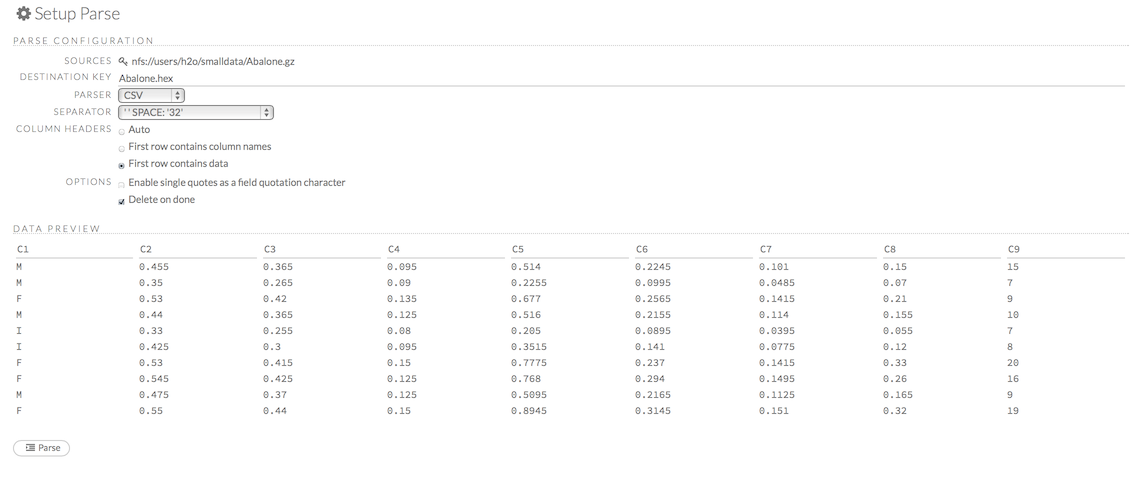
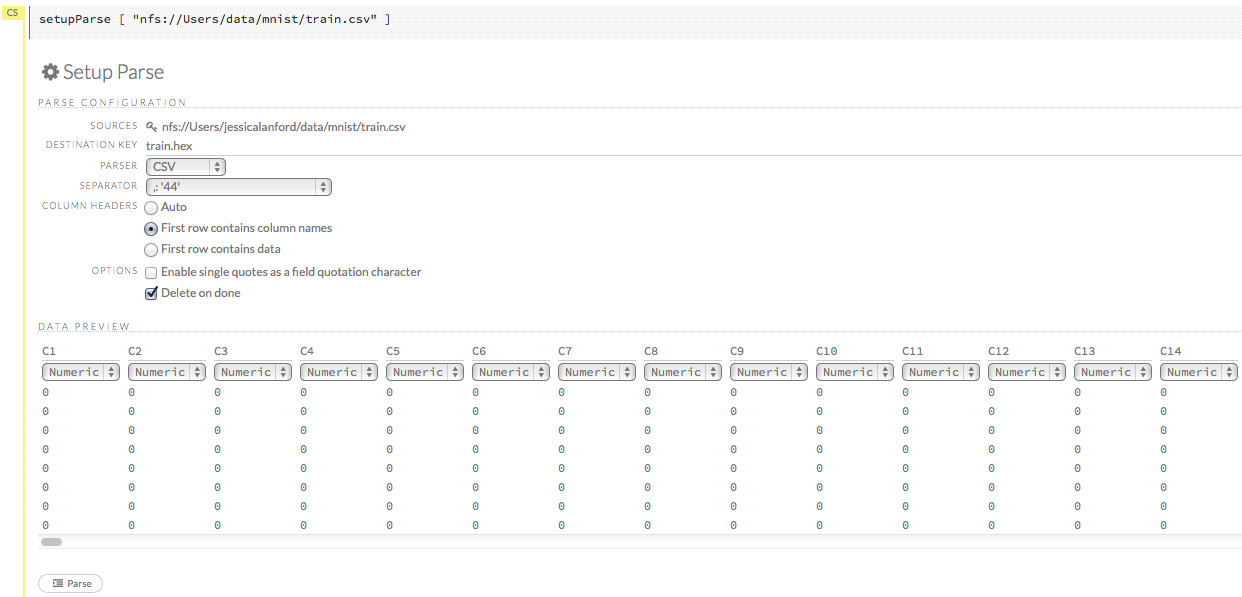
Updated Getting Started with Flow doc; added new Parse image, info on flow import/export, new Predict image

Changed region(s): [[0.0, 0.0, 1.0, 0.8696], [0.0, 0.9006, 0.0924, 0.9938], [0.0, 0.8075, 0.0308, 0.8385]]

diff --git a/h2o-docs/src/product/flow/README.md b/h2o-docs/src/product/flow/README.md
@@ -73,6 +73,10 @@ There are two modes for cells: edit and command. In edit mode, the cell is yello
 **NOTE**: If there is an error in the cell, the flag is red. 
 
  ![Cell error](images/Flow_redflag.png)
+ 
+ If the cell is executing commands, the flag is teal. The flag returns to yellow when the task is complete. 
+ 
+ ![Cell executing](images/Flow_cellmode_runningflag.png)
 
 Here are some important keyboard shortcuts to remember: 
 
@@ -161,9 +165,21 @@ Select any necessary additional options:
 - **Enable single quotes as a field quotation character**: Treat single quote marks (also known as apostrophes) in the data as a character, rather than an enum. This option is not selected by default. 
 - **Delete on done**: Check this checkbox to delete the imported data after parsing. This option is selected by default. 
 
-A preview of the data displays in the "Data Preview" section. After making your selections, click the **Parse** button. 
-
+A preview of the data displays in the "Data Preview" section. 
  ![Flow - Parse options](images/Flow_parse_setup.png)
+
+**Note**: To change the column type, select the drop-down list at the top of the column and select the data type. The options are: 
+  - Unknown
+  - Numeric
+  - Enum
+  - Time
+  - UUID
+  - String
+  - Invalid
+
+
+After making your selections, click the **Parse** button. 
+
 
 After you click the **Parse** button, the code for the current job displays. 
 
@@ -229,18 +245,21 @@ In the **Build a Model** cell, select an algorithm from the drop-down menu:
 
 <a name="Kmeans"></a>
 - **kmeans**: Create a K-Means model
+**Note**: For a K-Means model, the columns in the training frame cannot contain categorical values. If you select a dataset with categorical values as the training frame, the categorical columns are identified.
 
 <a name="GLM"></a>
 - **glm**: Create a Generalized Linear model
 
 <a name="grep"></a>
 - **grep**: Perform a global search for a specified character string and display the results (global regular expression)
+**Note**: For a grep model, the selected training frame must contain one vector of raw text. 
  
 <a name="w2v"></a>
-- **word2vec**: Create a word-to-vector model for text-based data
+- **word2vec**: Create a word-to-vector model for text-based data. 
+**Note**: For a word2vec model, the training frame must contain string columns. 
 
-<a name="sf"></a>
-- **splitframe**: Split a data frame
+<a name="pca"></a> 
+- **pca**: Create a Principal Components Analysis model for modeling without regularization or performing dimensionality reduction. 
 
 <a name="GBM"></a>
 - **gbm**: Create a Gradient Boosted model
@@ -264,9 +283,14 @@ The available options vary depending on the selected model. If an option is only
 
 - **DropNA20Cols**: (Optional)Check this checkbox to drop columns that are missing (i.e., use 0 or NA) over 20% of their values 
 
+- **User_points**: [(K-Means)](#Kmeans), [(PCA)](#pca) For K-Means, specify the number of initial cluster centers. For PCA, specify the initial Y matrix. 
+**Note**: The PCA **User_points** parameter should only be used by advanced users for testing purposes.  
+
+- **Transform**: [(PCA)](#pca) Select the transformation method for the training data: None, Standardize, Normalize, Demean, or Descale. The default is None. 
+
 - **Score\_each\_iteration**: (Optional) Score the validation set after each iteration of the model-building process. If you select this option, the model-building time increases. 
 
-- **Probs**: [(Quantile)](#quantile) Specify the probabilities for quantiles. The default values are [0.01, 0.05, 0.1, 0.25, 0.333, 0.5, 0.667, 0.75, 0.9, 0.95, 0.99]. 
+- **Probs**: [(Quantile)](#quantile) Specify the probabilities for quantiles. The default values are 0.001, 0.01, 0.1, 0.25, 0.333, 0.5, 0.667, 0.75, 0.9, 0.99, 0.999. 
 
 - **Response_column**: (Required for [GLM](#GLM), [GBM](#GBM), [DL](#DL)) Select the column to use as the independent variable.
 
@@ -292,11 +316,16 @@ The available options vary depending on the selected model. If an option is only
 
 - **Variable_importance**: ([GBM](#GBM), [DL](#DL)) Check this checkbox to compute variable importance. This option is not selected by default. 
 
-- **K**: [(K-Means)](#Kmeans) Specify the number of clusters. The default is 0.
+- **K**: [(K-Means)](#Kmeans), [(PCA)](#pca) For K-Means, specify the number of clusters. The K-Means default is 0. For PCA, specify the rank of matrix approximation. The PCA default is 1.  
 
-- **Max_iters**: [(K-Means)](#Kmeans) Specify the number of training iterations. The default is 1000. 
+- **Gamma**: [(PCA)](#pca) Specify the regularization weight for PCA. The default is 0. 
 
-- **Init**: [(K-Means)](#Kmeans) Select the initialization mode (Furthest, PlusPlus, or None).
+- **Max_iterations**: [(K-Means)](#Kmeans), [(PCA)](#pca) Specify the number of training iterations. The default is 1000.
+
+- **Max_iters**: [(GLM)](#GLM) Specify the number of training iterations. The default is 50.  
+
+- **Init**: [(K-Means)](#Kmeans), [(PCA)](#pca) Select the initialization mode For K-Means, the options are Furthest, PlusPlus, or None. For PCA, the options are PlusPlus, User, or None. 
+**Note**: If PlusPlus is selected, the initial Y matrix is chosen by the final cluster centers from the K-Means PlusPlus algorithm. 
 
 - **Family**: [(GLM)](#GLM) Select the model type (Gaussian, Binomial, Poisson, Gamma, Tweedie, or none).
 
@@ -325,6 +354,8 @@ The available options vary depending on the selected model. If an option is only
 - **Class\_sampling\_factors**: ([GLM](#GLM), [DL](#DL)) Specify the per-class (in lexicographical order) over/under-sampling ratios. By default, these ratios are automatically computed during training to obtain the class balance. There is no default value. 
 
 - **Solver**: [(GLM)](#GLM) Select the solver to use (ADMM, L\_BFGS, or none). [ADMM](http://www.stanford.edu/~boyd/papers/admm_distr_stats.html) supports more features and [L_BFGS](http://cran.r-project.org/web/packages/lbfgs/vignettes/Vignette.pdf) scales better for datasets with many columns. The default is ADMM. 
+
+- **Beta_eps**: [(GLM)](#GLM) Specify the beta epsilon value. If the L1 normalization of the current beta change is below this threshold, consider using convergence. 
 
 - **Diagnostics**: [(DL)](#DL) Check this checkbox to compute the variable importances for input features (using the Gedeon method). For large networks, selecting this option can reduce speed. This option is selected by default. 
 
@@ -589,10 +620,10 @@ The "Outline" tab in the sidebar displays a brief summary of the cells currently
 
 ---
 
-<a name"SaveFlow"></a>
+<a name="SaveFlow"></a>
 ##Saving Flows
 
-You can save your flow for later reuse. To save your flow, click the "Save" button (the first button in the row of buttons below the flow name), or click the drop-down "Flow" menu and select "Save." 
+You can save your flow for later reuse. To save your flow as a notebook, click the "Save" button (the first button in the row of buttons below the flow name), or click the drop-down "Flow" menu and select "Save." 
 To enter a custom name for the flow, click the default flow name ("Untitled Flow") and type the desired flow name. A pencil icon indicates where to enter the desired name. 
 
  ![Renaming Flows](images/Flow_rename.png)
@@ -607,6 +638,34 @@ To reuse a saved flow, click the "Flows" tab in the sidebar, then click the flow
  
  **NOTE**: Saved data, including flows and clips, are persistent as long as the same IP address is used for the cluster. If a new IP is used, previously saved flows and clips are not available. 
 
+
+###Duplicating Flows
+
+To create a copy of the current flow, select the **Flow** menu, then click **Duplicate**. The name of the current flow changes to "Copy of <FlowName>" (where <FlowName> is the name of the flow). You can save the duplicated flow using this name by clicking **Flow** > **Save**. 
+
+
+###Exporting Flows
+
+After saving a flow as a notebook, click the **Flow** menu, then select **Export**. A new window opens and the saved flow is downloaded to the default downloads folder on your computer. The file is exported as *<filename>*.flow, where *<filename>* is the name specified when the flow was saved. 
+
+
+###Loading Flows
+
+To load a saved flow, click the **Flows** tab in the sidebar at the right. In the pop-up confirmation window that appears, select **Load Notebook**, or click **Cancel** to return to the current flow. 
+
+ ![Confirm Replace Flow](images/Flow_confirmreplace.png)
+
+After clicking **Load Notebook**, the saved flow is loaded. 
+
+To load an exported flow, click the **Flow** menu and select **Open...**. In the pop-up window that appears, click the **Choose File** button and select the exported flow, then click the **Open** button. 
+
+ ![Open Flow](images/Flow_Open.png)
+
+**Notes**: 
+- Only exported flows using the default .flow filetype are supported. Other filetypes will not open. 
+- If the current notebook has the same name as the selected file, a pop-up confirmation appears to confirm that the current notebook should be overwritten. 
+
+---
 
 <a name="Troubleshooting"></a>
 ##Troubleshooting 
@@ -623,8 +682,7 @@ Click the **Admin** menu, then select **Cluster Status**. A summary of the statu
 - Whether all nodes can communicate (consensus)
 - Whether new nodes can join (locked/unlocked)
 - H2O version
-- Cluster size
-- Number of unavailable nodes
+- Number of used and available nodes
 - When the cluster was created
 
  ![Cluster Status](images/Flow_CloudStatus.png)
